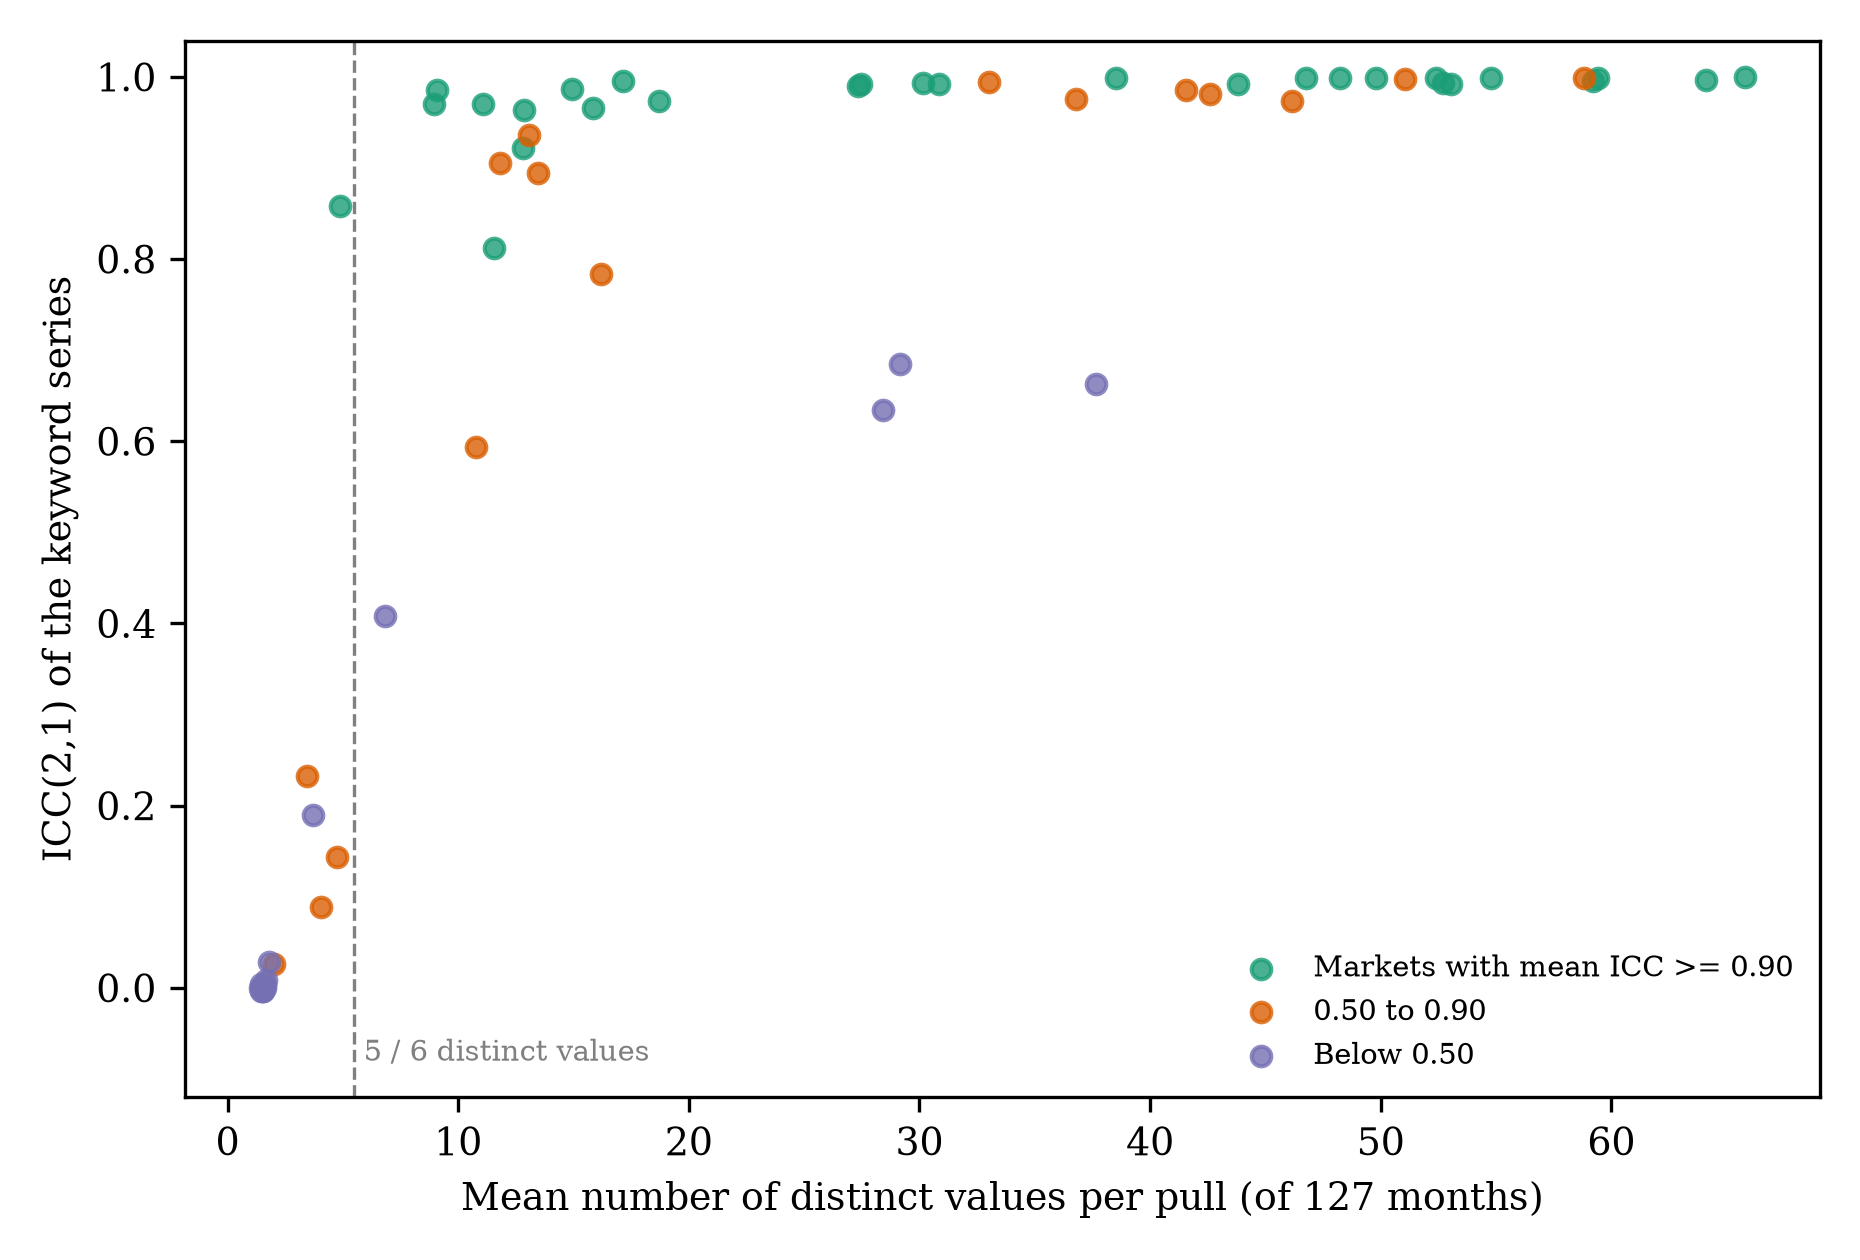
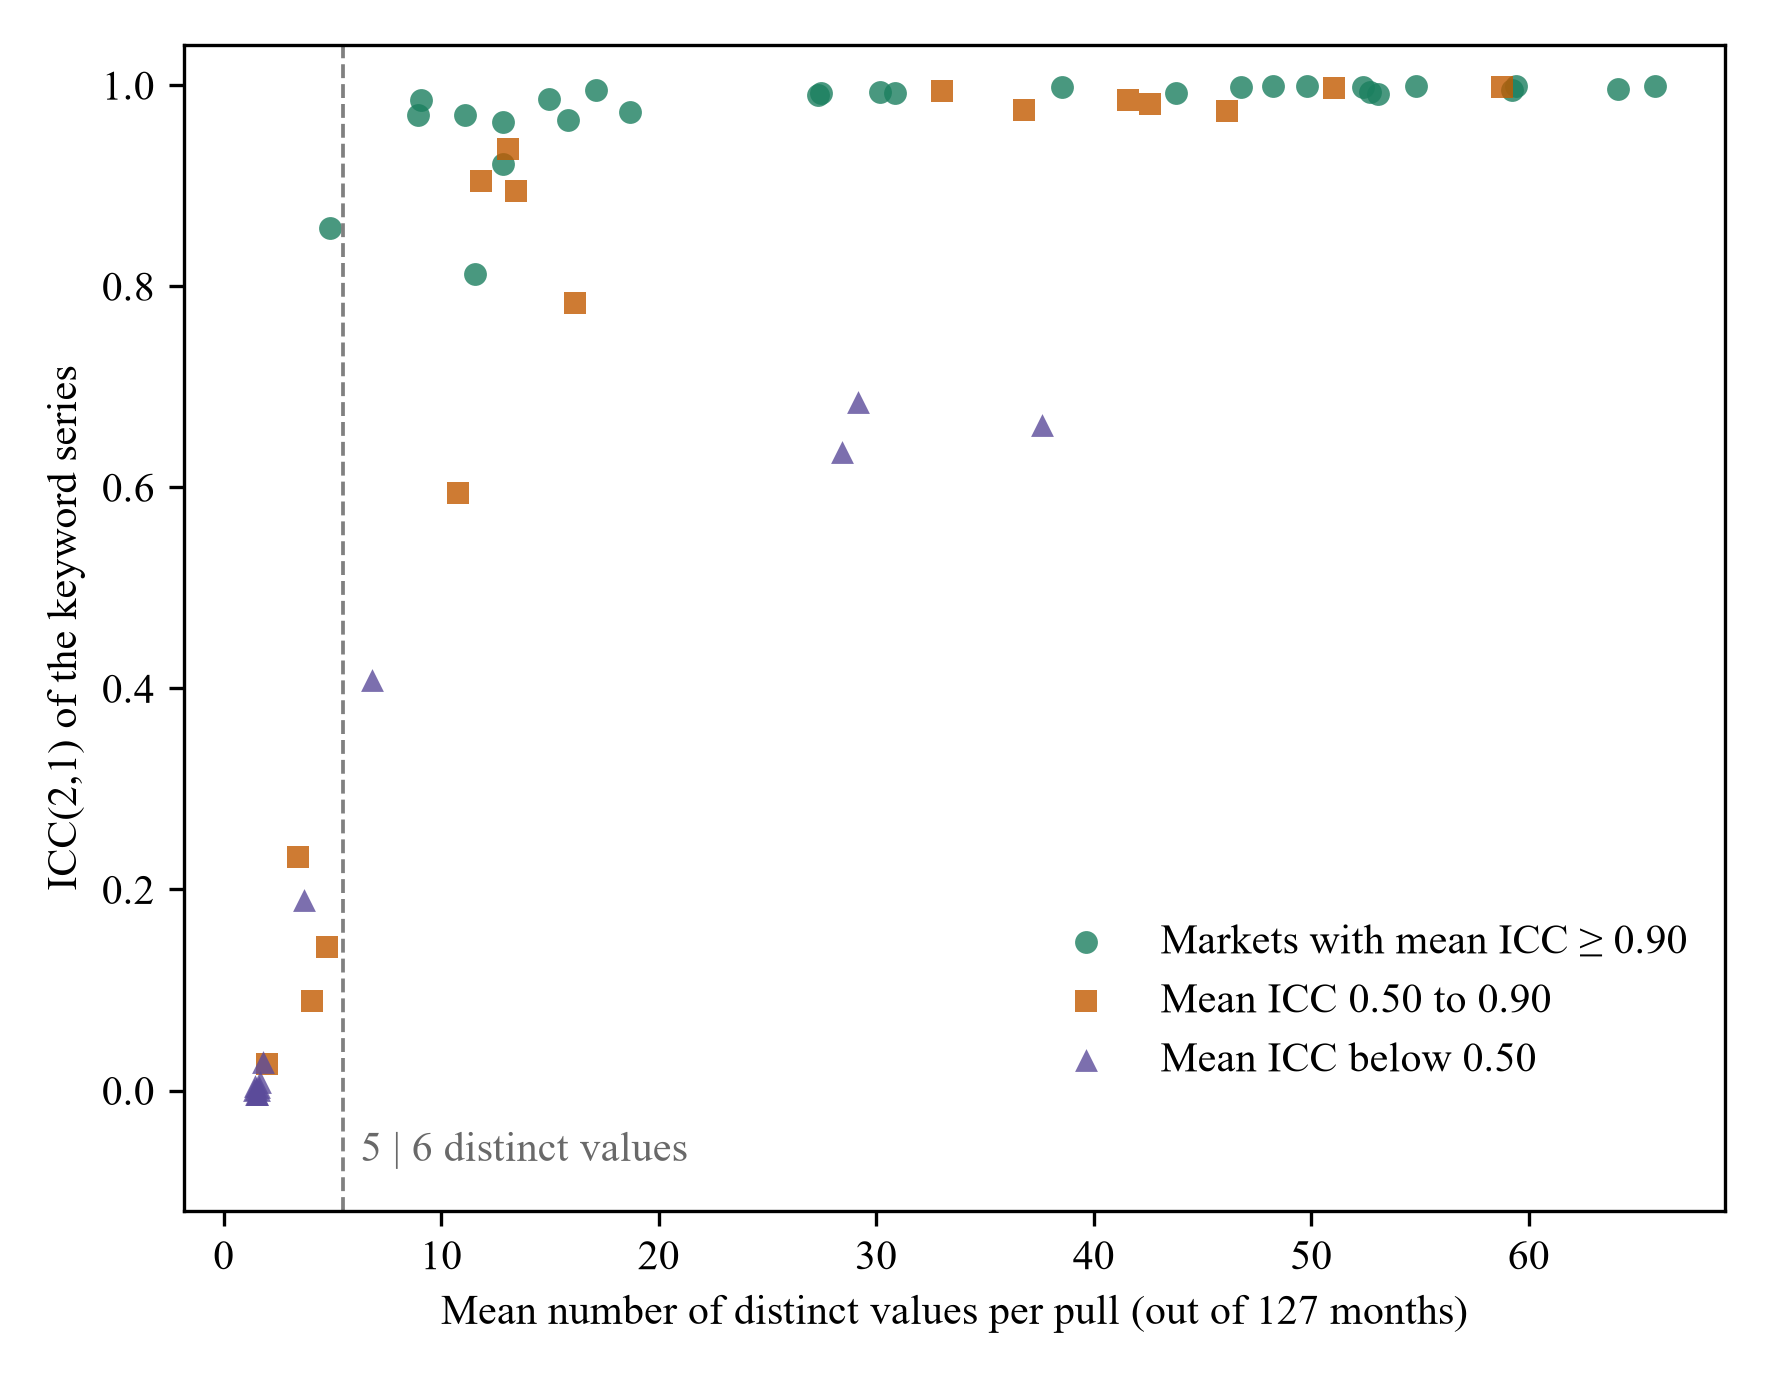
Recompute category analysis on the complete no-category series; Times New Roman 10 pt figures in English and Turkish

diff --git a/analyze_stage1h_diagnostics.py b/analyze_stage1h_diagnostics.py
@@ -11,7 +11,7 @@ b) Donem duyarliligi: ilk 10 pazar icin yalniz 4 Eylul sonrasi cekimlerle (yeni 
    ayni pencere) ICC; 10 Eylul oncesi/sonrasi (bekleme suresi degisimi) ICC.
 c) ICC'nin sinyal ve gurultu bilesenleri: aylar arasi SD (sinyal) ve ay-ici cekimler arasi SD
    (gurultu), ICC sinifina gore.
-d) Sekiller (figures/fig1-fig3.png).
+d) Sekiller (figures/fig1-fig3.png ve Turkce surumleri *_tr.png).
 
 Ciktilar: data/processed/s1h_*.csv, s1h_summary.txt, figures/*.png
 """
@@ -118,42 +118,81 @@ def main():
     sn.to_csv(os.path.join(OUT, "s1h_signal_noise_by_keyword.csv"), index=False)
     lines += ["", "c) Sinyal (aylar arasi SD) ve gurultu (ay-ici cekimler arasi SD), ICC sinifina gore", snt.round(3).to_string()]
 
-    # d) sekiller
+    # d) sekiller (Times New Roman 10 pt, 150 mm genislik: Word'de 1:1 boyutta okunur); EN ve TR surumleri
     d2 = d.copy()
     cat = pd.read_csv(os.path.join(OUT, "s1b_category_effect_by_keyword.csv"))
-    colors = {"high": "#1b9e77", "mid": "#d95f02", "low": "#7570b3"}
-    geo_icc = d.groupby("geo").icc_2_1.mean()
-    grp = geo_icc.apply(lambda v: "high" if v >= 0.9 else ("mid" if v >= 0.5 else "low"))
-    plt.rcParams.update({"font.family": "serif", "font.size": 9})
-    fig, ax = plt.subplots(figsize=(6.2, 4.2))
-    for gname, lab in (("high", "Markets with mean ICC >= 0.90"), ("mid", "0.50 to 0.90"), ("low", "Below 0.50")):
-        s = d2[d2.geo.map(grp) == gname]
-        ax.scatter(s.mean_distinct, s.icc_2_1, s=22, alpha=0.8, color=colors[gname], label=lab)
-    ax.axvline(5.5, color="grey", ls="--", lw=0.8); ax.text(5.9, -0.08, "5 / 6 distinct values", fontsize=7, color="grey")
-    ax.set_xlabel("Mean number of distinct values per pull (of 127 months)"); ax.set_ylabel("ICC(2,1) of the keyword series")
-    ax.set_ylim(-0.12, 1.04); ax.legend(frameon=False, fontsize=7, loc="lower right"); fig.tight_layout()
-    fig.savefig(os.path.join(FIG, "fig1_icc_vs_distinct_values.png"), dpi=300); plt.close(fig)
-
-    fig, ax = plt.subplots(figsize=(4.6, 4.4))
-    ok = cat.dropna(subset=["icc_2_1_cat", "icc_2_1_nocat"])
-    ax.scatter(ok.icc_2_1_cat, ok.icc_2_1_nocat, s=22, color="#1f77b4", alpha=0.8)
-    ax.plot([-0.1, 1.05], [-0.1, 1.05], color="grey", lw=0.8, ls="--")
-    ax.set_xlabel("ICC with Travel category filter"); ax.set_ylabel("ICC without category filter")
-    ax.set_xlim(-0.1, 1.05); ax.set_ylim(-0.1, 1.05); ax.set_aspect("equal")
-    fig.tight_layout(); fig.savefig(os.path.join(FIG, "fig2_filtered_vs_unfiltered_icc.png"), dpi=300); plt.close(fig)
-
     sh = pd.read_csv(os.path.join(OUT, "s1e_split_half_by_geo.csv"), index_col=0)
     sh.columns = [int(c) for c in sh.columns]
-    fig, ax = plt.subplots(figsize=(6.2, 4.2))
-    for geo in sh.index:
-        s = sh.loc[geo].dropna()
-        ax.plot(s.index, s.values, marker="o", ms=3, lw=1, color=colors[grp[geo]], alpha=0.85)
-        if grp[geo] != "high":
-            ax.text(s.index[-1] + 0.25, s.values[-1], geo, fontsize=6.5, va="center", color=colors[grp[geo]])
-    ax.text(17.6, 1.012, "7 markets with mean ICC >= 0.90", fontsize=6.5, ha="right", va="bottom", color=colors["high"])
-    ax.set_xlabel("Number of pulls averaged (k)"); ax.set_ylabel("Split-half ICC of the k-pull mean")
-    ax.set_xlim(0.5, 17.8); ax.set_ylim(-0.05, 1.03); ax.set_xticks([1, 2, 3, 5, 8, 12, 16]); fig.tight_layout()
-    fig.savefig(os.path.join(FIG, "fig3_reliability_vs_pulls_averaged.png"), dpi=300); plt.close(fig)
+    colors = {"high": "#1b7f5f", "mid": "#c25a00", "low": "#5b4b9a"}
+    markers = {"high": "o", "mid": "s", "low": "^"}
+    geo_icc = d.groupby("geo").icc_2_1.mean()
+    grp = geo_icc.apply(lambda v: "high" if v >= 0.9 else ("mid" if v >= 0.5 else "low"))
+    plt.rcParams.update({"font.family": "serif",
+                         "font.serif": ["Times New Roman", "Liberation Serif", "Nimbus Roman", "DejaVu Serif"],
+                         "font.size": 10, "axes.labelsize": 10, "xtick.labelsize": 10, "ytick.labelsize": 10,
+                         "legend.fontsize": 10, "axes.titlesize": 10, "axes.linewidth": 0.8})
+    W = 5.9  # inc = 150 mm
+    LAB = {
+        "en": {"suf": "", "dec": ".",
+               "hi": "Markets with mean ICC ≥ 0.90", "mid": "Mean ICC 0.50 to 0.90", "lo": "Mean ICC below 0.50",
+               "cut": "5 | 6 distinct values",
+               "x1": "Mean number of distinct values per pull (out of 127 months)", "y1": "ICC(2,1) of the keyword series",
+               "x2": "ICC with Travel category filter", "y2": "ICC without category filter",
+               "x3": "Number of pulls averaged (k)", "y3": "Split-half ICC of the k-pull mean",
+               "note3": "7 markets with mean ICC ≥ 0.90 lie above 0.94"},
+        "tr": {"suf": "_tr", "dec": ",",
+               "hi": "Ortalama ICC ≥ 0,90 olan pazarlar", "mid": "Ortalama ICC 0,50-0,90", "lo": "Ortalama ICC 0,50'nin altı",
+               "cut": "5 | 6 farklı değer",
+               "x1": "Çekim başına ortalama farklı değer sayısı (127 ay içinde)", "y1": "Anahtar kelime serisinin ICC(2,1) değeri",
+               "x2": "Seyahat kategorisi filtreli ICC", "y2": "Filtresiz ICC",
+               "x3": "Ortalaması alınan çekim sayısı (k)", "y3": "k çekim ortalamasının bölünmüş-yarı ICC değeri",
+               "note3": "Ortalama ICC ≥ 0,90 olan 7 pazar 0,94'ün üzerindedir"},
+    }
+    from matplotlib.ticker import FuncFormatter
+    for lang, L in LAB.items():
+        fmt = FuncFormatter(lambda v, _, dc=L["dec"]: f"{v:.1f}".replace(".", dc))
+        fmt2 = FuncFormatter(lambda v, _, dc=L["dec"]: f"{v:.2f}".replace(".", dc))
+        fig, ax = plt.subplots(figsize=(W, 4.6))
+        for gname, lab in (("high", L["hi"]), ("mid", L["mid"]), ("low", L["lo"])):
+            s_ = d2[d2.geo.map(grp) == gname]
+            ax.scatter(s_.mean_distinct, s_.icc_2_1, s=30, alpha=0.8, color=colors[gname], marker=markers[gname], label=lab, linewidths=0)
+        ax.axvline(5.5, color="grey", ls="--", lw=0.9)
+        ax.text(6.3, -0.07, L["cut"], fontsize=10, color="dimgrey")
+        ax.set_xlabel(L["x1"]); ax.set_ylabel(L["y1"])
+        ax.set_ylim(-0.12, 1.04); ax.yaxis.set_major_formatter(fmt)
+        ax.legend(frameon=False, loc="lower right", bbox_to_anchor=(1.0, 0.08))
+        fig.tight_layout()
+        fig.savefig(os.path.join(FIG, f"fig1_icc_vs_distinct_values{L['suf']}.png"), dpi=300); plt.close(fig)
+
+        fig, ax = plt.subplots(figsize=(5.2, 5.0))
+        ok = cat.dropna(subset=["icc_2_1_cat", "icc_2_1_nocat"])
+        ax.scatter(ok.icc_2_1_cat, ok.icc_2_1_nocat, s=30, color="#2b5c8a", alpha=0.8, linewidths=0)
+        ax.plot([-0.1, 1.05], [-0.1, 1.05], color="grey", lw=0.9, ls="--")
+        ax.set_xlabel(L["x2"]); ax.set_ylabel(L["y2"])
+        ax.set_xlim(-0.1, 1.05); ax.set_ylim(-0.1, 1.05); ax.set_aspect("equal")
+        ax.xaxis.set_major_formatter(fmt); ax.yaxis.set_major_formatter(fmt)
+        fig.tight_layout(); fig.savefig(os.path.join(FIG, f"fig2_filtered_vs_unfiltered_icc{L['suf']}.png"), dpi=300); plt.close(fig)
+
+        fig, ax = plt.subplots(figsize=(W, 4.8))
+        ends = []
+        for geo in sh.index:
+            s_ = sh.loc[geo].dropna()
+            ax.plot(s_.index, s_.values, marker=markers[grp[geo]], ms=3.5, lw=1.1, color=colors[grp[geo]], alpha=0.9)
+            if grp[geo] != "high":
+                ends.append([geo, s_.index[-1], s_.values[-1]])
+        ends.sort(key=lambda e: -e[2])
+        ypos = [e[2] for e in ends]
+        for i in range(1, len(ypos)):
+            if ypos[i - 1] - ypos[i] < 0.05:
+                ypos[i] = ypos[i - 1] - 0.05
+        for (geo, x, y), yl in zip(ends, ypos):
+            ax.text(x + 0.35, yl, geo, fontsize=10, va="center", color=colors[grp[geo]])
+        ax.text(16.0, 1.04, L["note3"], fontsize=10, ha="right", va="bottom", color=colors["high"])
+        ax.set_xlabel(L["x3"]); ax.set_ylabel(L["y3"])
+        ax.set_xlim(0.5, 18.6); ax.set_ylim(-0.05, 1.1); ax.set_xticks([1, 2, 3, 5, 8, 12, 16]); ax.set_yticks([0, 0.25, 0.5, 0.75, 1.0])
+        ax.yaxis.set_major_formatter(fmt2)
+        fig.tight_layout()
+        fig.savefig(os.path.join(FIG, f"fig3_reliability_vs_pulls_averaged{L['suf']}.png"), dpi=300); plt.close(fig)
 
     with open(os.path.join(OUT, "s1h_summary.txt"), "w", encoding="utf-8") as f:
         f.write("\n".join(lines + ["=" * 68]))

diff --git a/README.md b/README.md
@@ -23,7 +23,7 @@ Licences: code under MIT (`LICENSE`), data under CC BY 4.0 (`LICENSE-DATA.md`). 
 | `analyze_stage1g_validity.py` | External validity: co-movement of keyword series with official monthly arrivals. |
 | `validity_data/ktb_annual/` | Annual border statistics workbooks (2016-2025), Ministry of Culture and Tourism of Türkiye, General Directorate of Investment and Enterprises (https://yigm.ktb.gov.tr/TR-249709/yillik-bultenler.html). Sheet `T7-Mil-Ay Göre G.Yabancı` is used. |
 | `data/external/ktb_monthly_arrivals_2016_2025.csv` | Monthly foreign visitor arrivals by nationality for the 15 markets, extracted from the workbooks. |
-| `analyze_stage1h_diagnostics.py` | Screening-rule diagnostics, period sensitivity, signal and noise components, and the three figures (`figures/`). |
+| `analyze_stage1h_diagnostics.py` | Screening-rule diagnostics, period sensitivity, signal and noise components, and the three figures in English and Turkish versions (`figures/`; Times New Roman 10 pt). |
 | `data/processed/` | Outputs produced by the analysis scripts. |
 
 ## Reproducing the analysis
